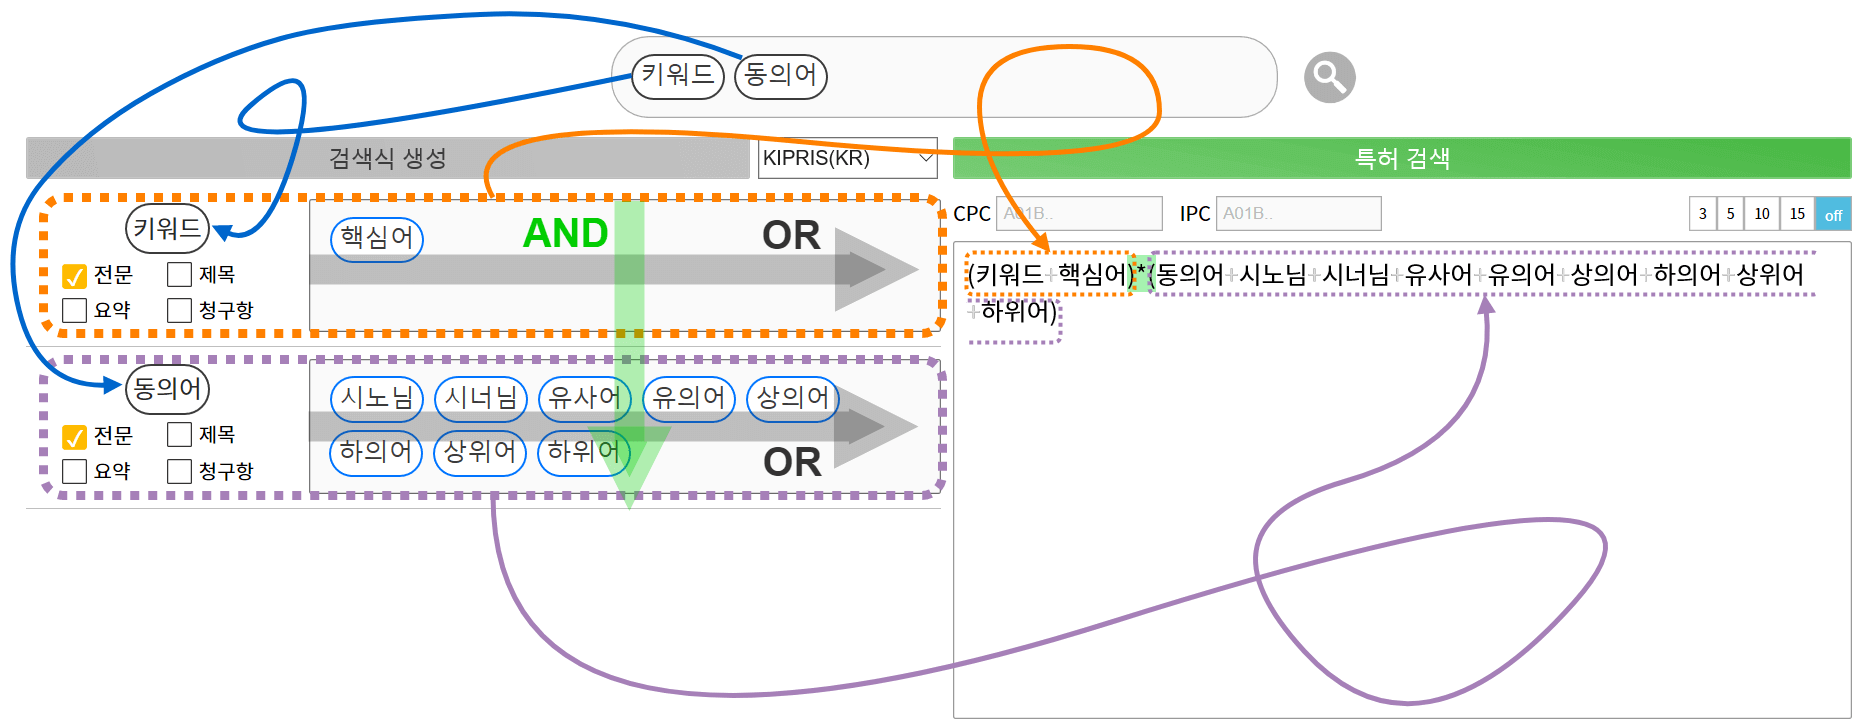
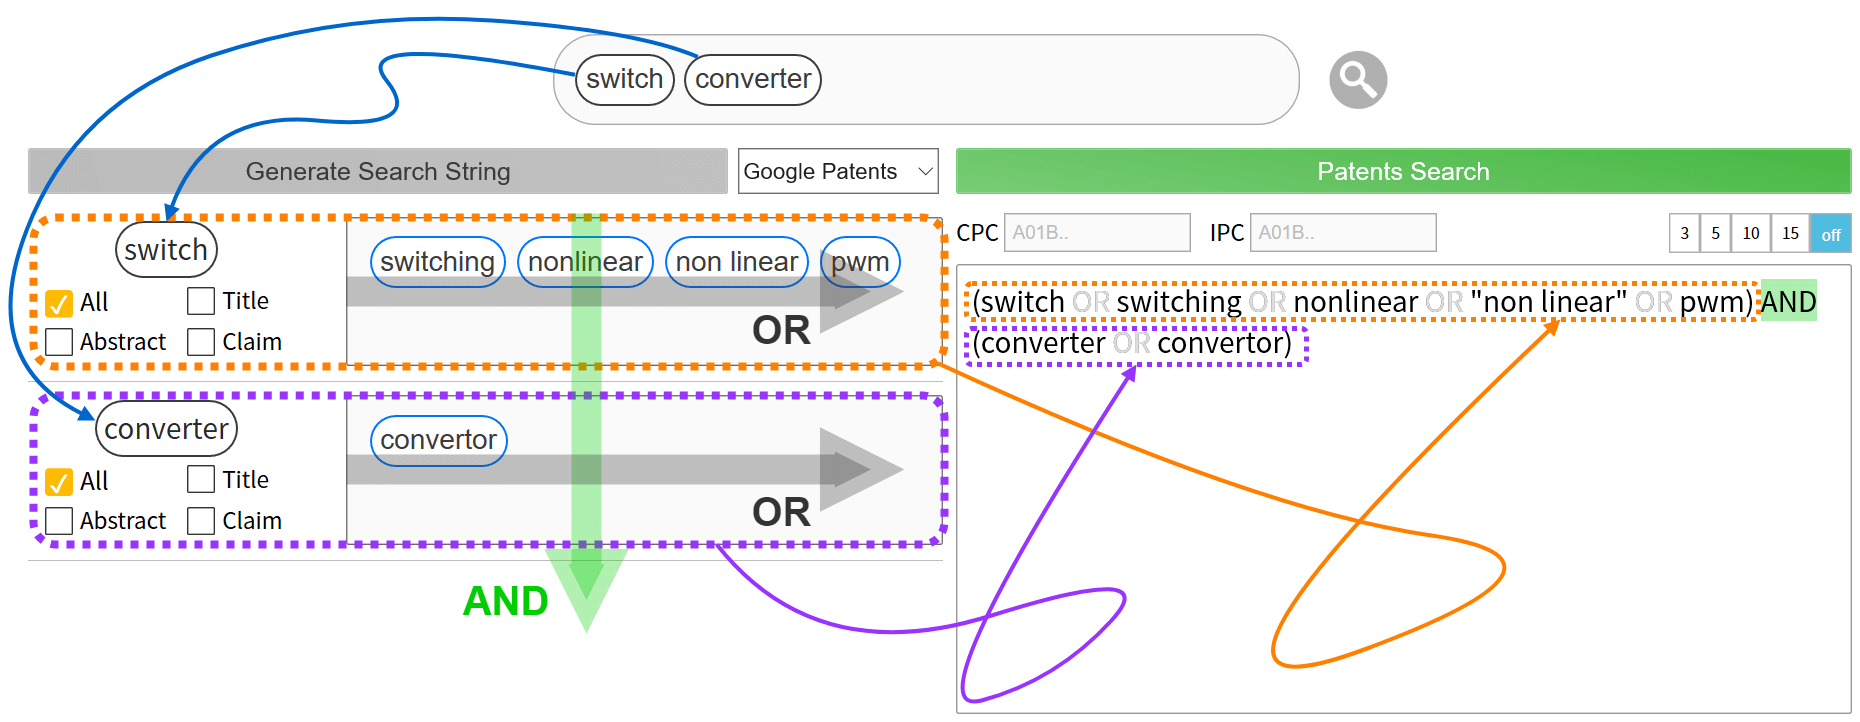
features/1 번역 완료

diff --git a/index.html b/index.html
@@ -1,5 +1,5 @@
 <!DOCTYPE html>
-<html lang="ko">
+<html lang="en">
 
 <head>
   <meta charset="utf-8">
@@ -106,9 +106,9 @@
       </button>
       <div class="collapse navbar-collapse" id="navbarResponsive">
         <ul class="navbar-nav ml-auto my-2 my-lg-0">
-          <li class="nav-item">
+          <!--<li class="nav-item">
             <a class="nav-link js-scroll-trigger" href="#whyhow">How? Why?</a>
-          </li>
+          </li>-->
           <li class="nav-item">
             <a class="nav-link js-scroll-trigger" href="#features">Features</a>
           </li>
@@ -165,10 +165,10 @@
             <div id="share-button" class="text-center" style="display: none">
               <div class="mt-5">
                 <a id="share" class="btn btn-primary btn-xl js-scroll-trigger" href="#" style="color: white">
-                  <span><i class="fa fa-share"></i>&nbsp;공유하기</span></a>
+                  <span><i class="fa fa-share"></i>&nbsp;Share</span></a>
               </div>
-              <p class="text-white-75 mt-2" style="font-size: 1rem">윈도우10에서 다운로드 버튼으로 바뀝니다.</p>
-              <p class="text-white-75 mt-2" style="font-size: 1rem">카카오톡에 공유하고, 다음에<br>윈도우10에서 사용해 보세요.</p>
+              <p class="text-white-75 mt-2" style="font-size: 1rem">It will be changed Download button on Windows 10.</p>
+              <p class="text-white-75 mt-2" style="font-size: 1rem">Share it on your SNS and <b>try it on Windows 10.</b></p>
             </div>
 
           </div>
@@ -183,7 +183,7 @@
     </div>
   </header>
 
-  <!-- Why Section -->
+  <!-- Why Section 
   <section id="whyhow">
     <div class="container py-5 bg-light">
       <div class="row d-flex align-items-center justify-content-center">
@@ -230,7 +230,7 @@
           <p onclick="alert('준비 중입니다.')"><a href="#" target="_blank">내 상표를 검색식으로 만드는 방법>></a></p>
         </div>
       </div>
-  </section>
+  </section>-->
 
   <!-- Features Section -->
   <section id="features">
@@ -263,19 +263,15 @@
               <h2 class="mb-4"><span class="divider-v">|</span><span> Intuition</span></h2>
               <div class="row d-flex align-items-center justify-content-center">
                 <img class="col-lg-12 img-fluid popup-img"
-                  src="https://1.bp.blogspot.com/-AGZolX0dOPg/Xd7RZR2XTLI/AAAAAAAAHUU/2f5fEEi0scAJELA5Ya-pAiUBIme5teFbwCLcBGAsYHQ/s1600/1.png"
+                  src="img/features/1.png"
                   alt="특허 검색 화면">
               </div>
               <p class="text-right text-wave-h" style="font-size: 12px">이미지를 클릭하여 확대할 수 있습니다.</p>
               <p>
-                CCPatents는 검색식을 만드는 과정을 <b1>키워드 입력</b1> - <b2>동의어 입력</b2> - <b3>검색식
-                  생성</b3> 단계로 분리하고, 모든 단어를 태그
-                처리하여 <b>사용자가 단어에만 집중</b>할 수 있도록 하였습니다.
+                CCPatents separated the process of generating search string into <b1>entering keywords</b1> - <b2>entering synonyms</b2> - <b3>generating search string</b3>, tagging all words so that users can focus only on words.
               </p>
-              <p>검색식도 직접 입력할 필요 없이 <b>특허 검색</b> 버튼을 누르면, <b>당신이 선택한 검색 서비스 홈페이지에 자동으로
-                  접속하여 검색</b>을 수행합니다.
-              </p>
-              <P>그리고 기존의 필드별 검색식 입력 방식이 아닌, <b>키워드별 필드 선택 방식</b>을 채택하였습니다.</P>
+              <p>If you press the <b>Patents Search button</b>, CCPatents will send the search string to the search service you selected and <b>display the search results automatically.</b></p>
+              <P>And instead of traditional field-specific input methods, CCPatents adopted <b>keyword-specific</b> input method.</P>
               <!--<p><a href="#" class="btn btn-primary px-3 py-2">More</a></p>-->
             </div>
 
@@ -443,8 +439,8 @@
         <div class="col-lg-6 px-3 order-1 order-lg-2">
           <h2 class="py-3" n="500" data-aos-delay="100"><span class="divider-v">|</span> <span>Download</span></h2>
           <p id="win10_warn" style="display: none;"><b1>윈도우10 전용 프로그램입니다. 윈도우10에서 스토어 버튼이 나타납니다.</b1></p>
-          <p><b>마이크로소프트 계정이 없어도</b> 설치할 수 있습니다.</p>
-          <p class="pb-3 pb-md-1"><b>로그인 창</b>이 뜨지만 그냥 <b>닫아도 설치가 진행</b>됩니다.</p>
+          <p>You can install <b>without a Microsoft account.</b></p>
+          <p class="pb-3 pb-md-1"><b>The login pop-up</b> will appear, but if you <b>just close it</b>, the installation will continue normally.</p>
           <!--<p>마이크로소프트 스토어에 <b>처음 접속</b>하면 <b>장치 간에 사용 알림</b>이 나타날 수 있지만, <b>관심 없음 버튼</b>을 클릭하면 설치가 진행됩니다.</p>-->
           <div id="store-button"  class="row" data-aos="fade-up" data-aos-duration="500">
             <a class="col-6 col-md-5 col-lg-7 pb-3 pb-lg-0" href="ms-windows-store://pdp/?productid=9N798V33QDF8"><img
@@ -471,26 +467,26 @@
             <div class="row justify-content-start pb-3">
               <div class="col-lg-8">
                 <h2 class="pb-3"><span class="divider-v">|</span> <span>Contact us</span></h2>
-                <p>추가하고 싶은 기능이 있거나,<br>버그 발견시 언제든지 문의해 주세요.</p>
+                <p>If you have a feature you would like to add,<br>or if you find a bug, please let us know.</p>
                 <div class="contact-info">
                   <form action="https://script.google.com/macros/s/AKfycbw15FE1tciA0ToUN5xdQzkcj_SgoGam44xIMaZ82A/exec"
                     method="POST" class="pt-2 w-100 gform pure-form pure-form-stacked">
                     <div class="form-group">
-                      <input name="name" class="form-control" required placeholder="이름">
+                      <input name="name" class="form-control" required placeholder="Name">
                     </div>
                     <div class="form-group">
                       <input name="email" class="form-control" type="email" required
-                        placeholder="이메일 (user@example.com)">
+                        placeholder="E-Mail (user@example.com)">
                     </div>
                     <div class="form-group">
-                      <input name="subject" class="form-control" placeholder="제목">
+                      <input name="subject" class="form-control" placeholder="Title">
                     </div>
                     <div class="form-group">
                       <textarea name="message" cols="30" rows="7" class="form-control" required style="resize: none;"
-                        placeholder="내용"></textarea>
+                        placeholder="Contents"></textarea>
                     </div>
                     <div class="form-group">
-                      <button class="btn btn-primary py-3 px-5" style="color:white">메일 보내기</button>
+                      <button class="btn btn-primary py-3 px-5" style="color:white">Send</button>
                     </div>
                   </form>
                 </div>
